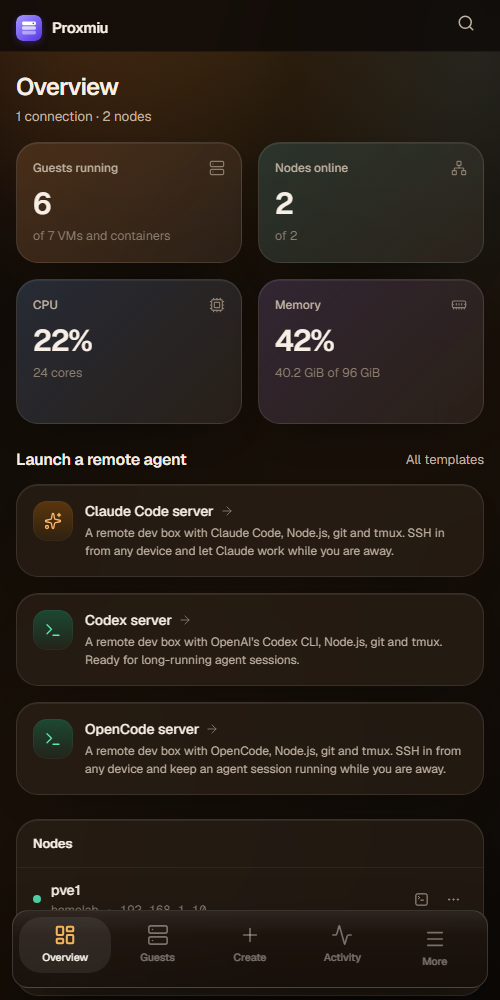
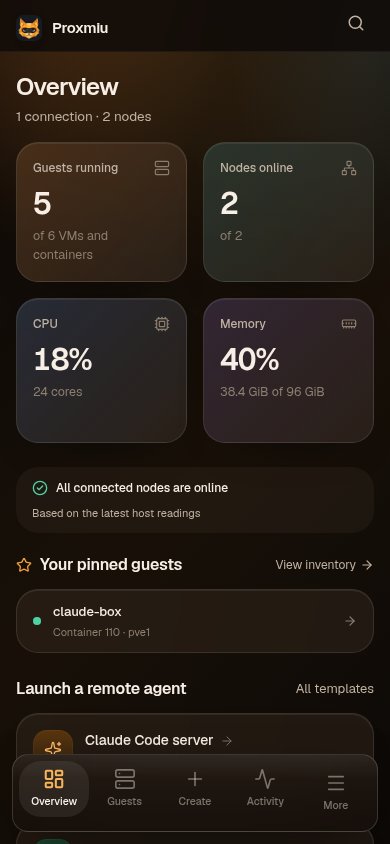
docs: publish premium workspace screenshots and release evidence

diff --git a/docs/superpowers/plans/2026-11-02-premium-workspaces.md b/docs/superpowers/plans/2026-11-02-premium-workspaces.md
@@ -50,8 +50,8 @@ Files: modify `web/src/pages/Overview.tsx`, `web/src/components/CommandPalette.t
 
 - [x] Add health warnings, pinned guest shortcuts and guest-detail navigation from command search.
 - [x] Update documentation and site copy with implemented capabilities, keeping install and existing mascot flows working.
-- [ ] Capture and inspect the finished app on desktop/light/phone and refresh site screenshots.
-- [ ] Run final checks and fresh whole-change review; address material findings; commit app and site changes and push both repos.
+- [x] Capture and inspect the finished app on desktop/light/phone and refresh site screenshots.
+- [x] Run final checks and fresh whole-change review; address material findings; commit app and site changes and push both repos.
 
 ## Progress
 
@@ -61,3 +61,5 @@ Files: modify `web/src/pages/Overview.tsx`, `web/src/components/CommandPalette.t
 - Integration fixture finding resolved: a build changed asset hashes after Fastify startup. A live Vite preview removed the stale registration while developing; the production browser regression serves the final bundle independently.
 - Fresh review found and verified fixes for outage-related draft loss and stale healthy status, then confirmed full phone guest names/addresses and compact completed-batch presentation. Final disposition: ship, no remaining findings from that review.
 - Ruling: cap a batch at 50 explicit targets, retaining the planned two-request concurrency, to keep confirmations and result review manageable.
+- Release evidence (2026-11-03): 22 passing unit tests, typecheck and production build; passing isolated outage and mascot browser checks; passing mock-backed guest/inventory workflows; 12 current screenshots; website desktop/phone checks with all 14 images loaded and working install-copy, screenshot, navigation and mascot flows. Fresh app and website reviewers both returned ship after the identified issues were corrected.
+- Commits are separated into the design plan, functional app upgrade, and presentation/screenshots updates. GitHub publication verifies blob hashes and the complete tree against each local reviewed commit.

diff --git a/README.md b/README.md
@@ -10,6 +10,10 @@ A modern web app for managing Proxmox VE on your local network: find hosts, star
 
 <table>
   <tr>
+    <td width="50%"><img src="docs/screenshots/guest-detail.png" alt="Guest workspace with performance history, configuration and notes" /><br /><sub><b>Guest workspace</b>: real history, configuration, notes and your important machines pinned close</sub></td>
+    <td width="50%"><img src="docs/screenshots/bulk-actions.png" alt="Individual results for a reviewed batch of power requests" /><br /><sub><b>Batch requests</b>: review the targets and see an outcome for every guest</sub></td>
+  </tr>
+  <tr>
     <td width="50%"><img src="docs/screenshots/guests.png" alt="Guests with live usage and actions" /><br /><sub><b>Guests</b>: live status, addresses and usage, with one-click SSH, reboot and more</sub></td>
     <td width="50%"><img src="docs/screenshots/create.png" alt="Create a Claude Code server" /><br /><sub><b>Create</b>: a Claude Code server from a template, with every setting adjustable</sub></td>
   </tr>
